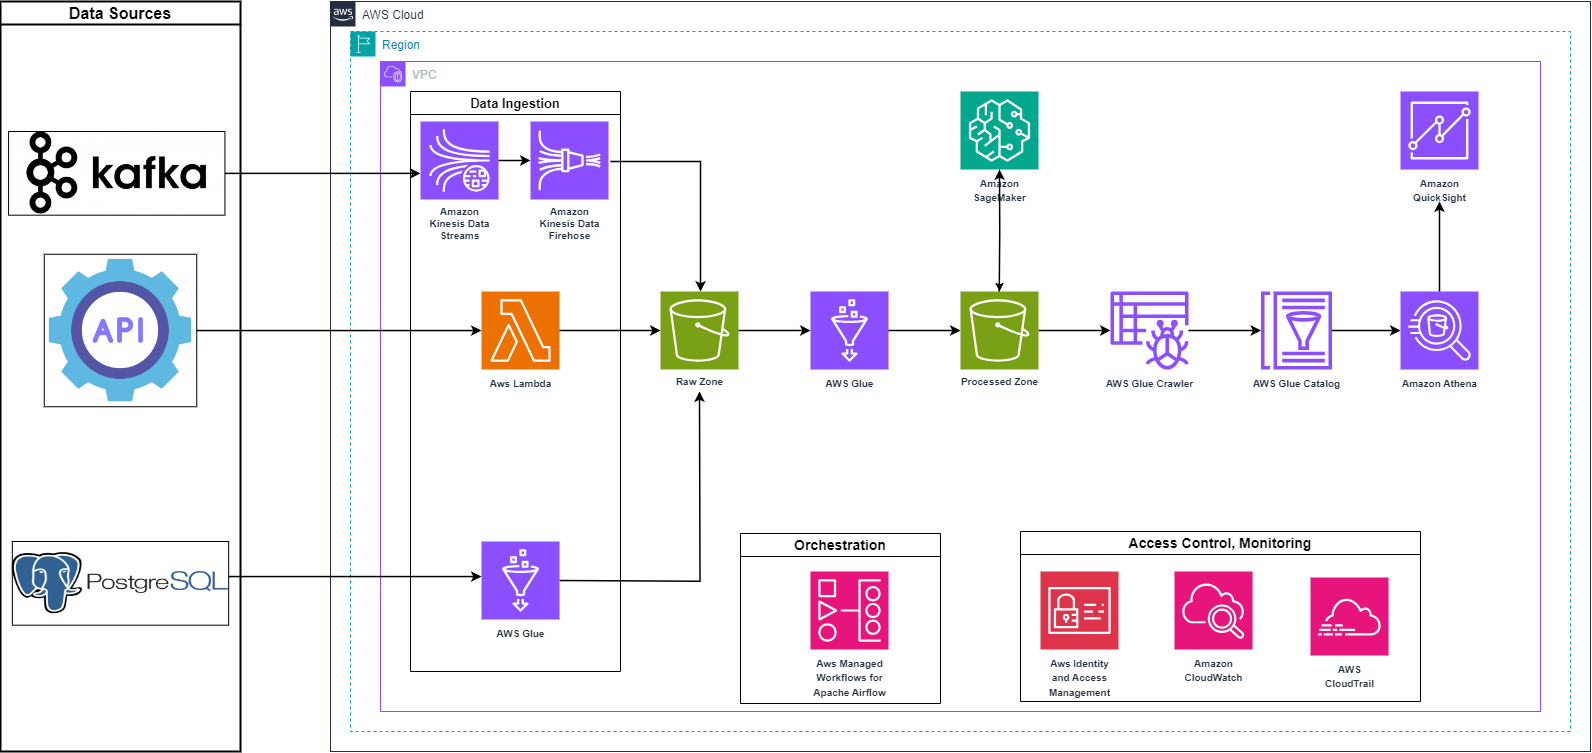
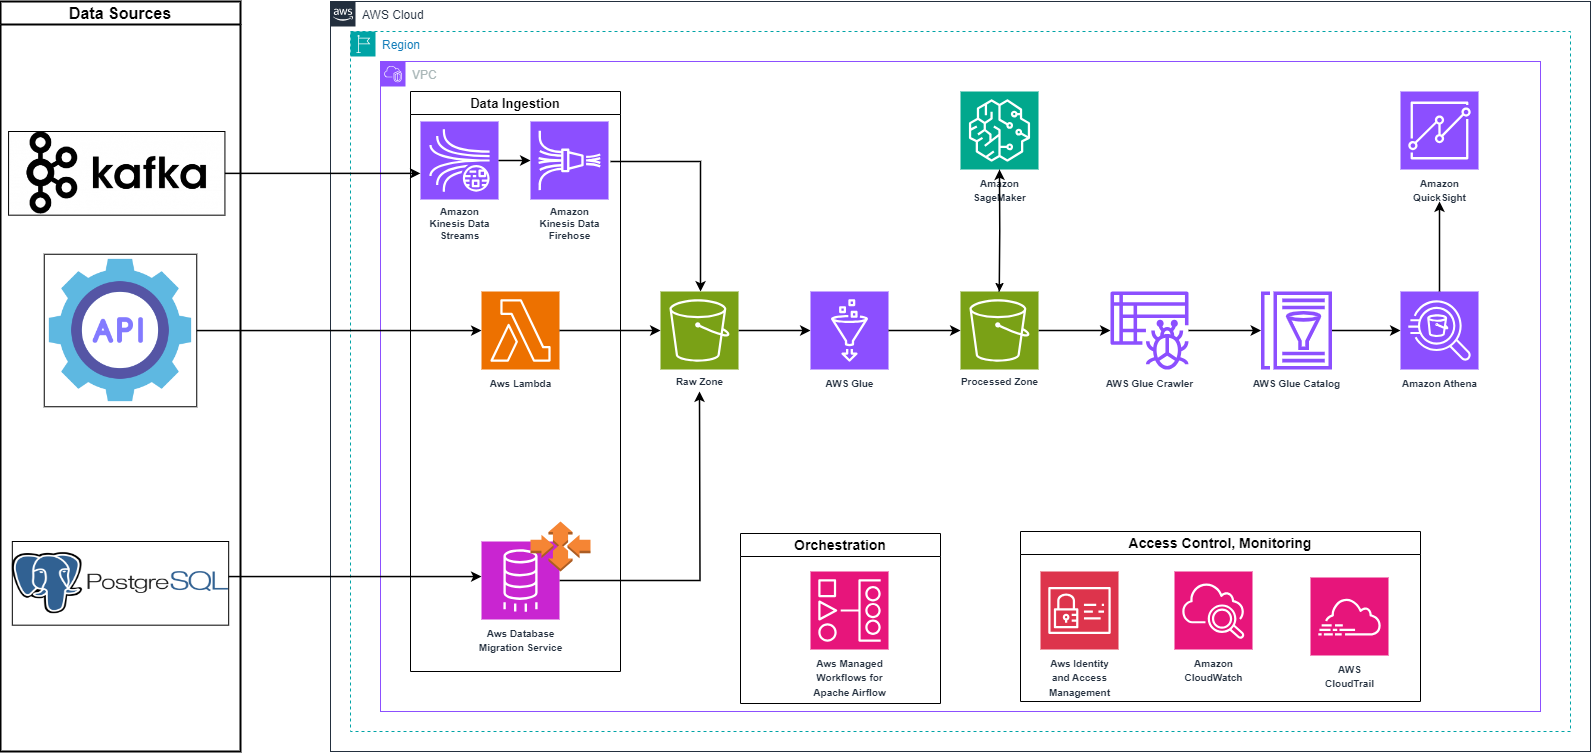
feat: change ingestion service in the architecture

Changed region(s): [[0.277, 0.7025, 0.3693, 0.8858], [0.4001, 0.7636, 0.4309, 0.7942]]

diff --git a/README.md b/README.md
@@ -21,7 +21,7 @@ This document outlines the architecture of a robust data pipeline on AWS. The pu
 - **Amazon Kinesis Data Streams**: Captures real-time data from Kafka for immediate processing and analysis.
 - **Amazon Kinesis Data Firehose**: Facilitates the direct and automated loading of streaming data into the S3 Raw Zone.
 - **AWS Lambda**: Fetches weather data from third-party APIs.
-- **AWS Glue**: Utilized for ingesting data from PostgreSQL into the AWS environment.
+- **AWS Data Migration Services**: Utilized for ingesting data from PostgreSQL into the AWS environment.
 
 ### Data Storage
 
@@ -65,9 +65,9 @@ This document outlines the architecture of a robust data pipeline on AWS. The pu
    - Lambda functions process and transform the API response, then write the data directly into the S3 Raw Zone, allowing near-real-time weather information to be associated with vessel positions.
 
 3. **PostgreSQL to S3**:
-   - Vessel performance data and static vessel information from PostgreSQL databases are ingested using AWS Glue.
-   - AWS Glue is scheduled to perform these tasks daily for performance data and weekly for static data, using the Delta format in the ETL process to efficiently manage updates.
-   - The transformed data is placed in the S3 Processed Zone, ready for analytics.
+   - Vessel performance data and static vessel information from PostgreSQL databases are ingested using AWS Data Migration Services.
+   - Tasks are scheduled to perform these tasks daily for performance data and weekly for static data, using CDC to efficiently manage updates.
+   - The transformed data is placed in the S3 Processed Zone, upserted in the delta format, ready for analytics.
 
 ### Orchestration and Cataloging
 
